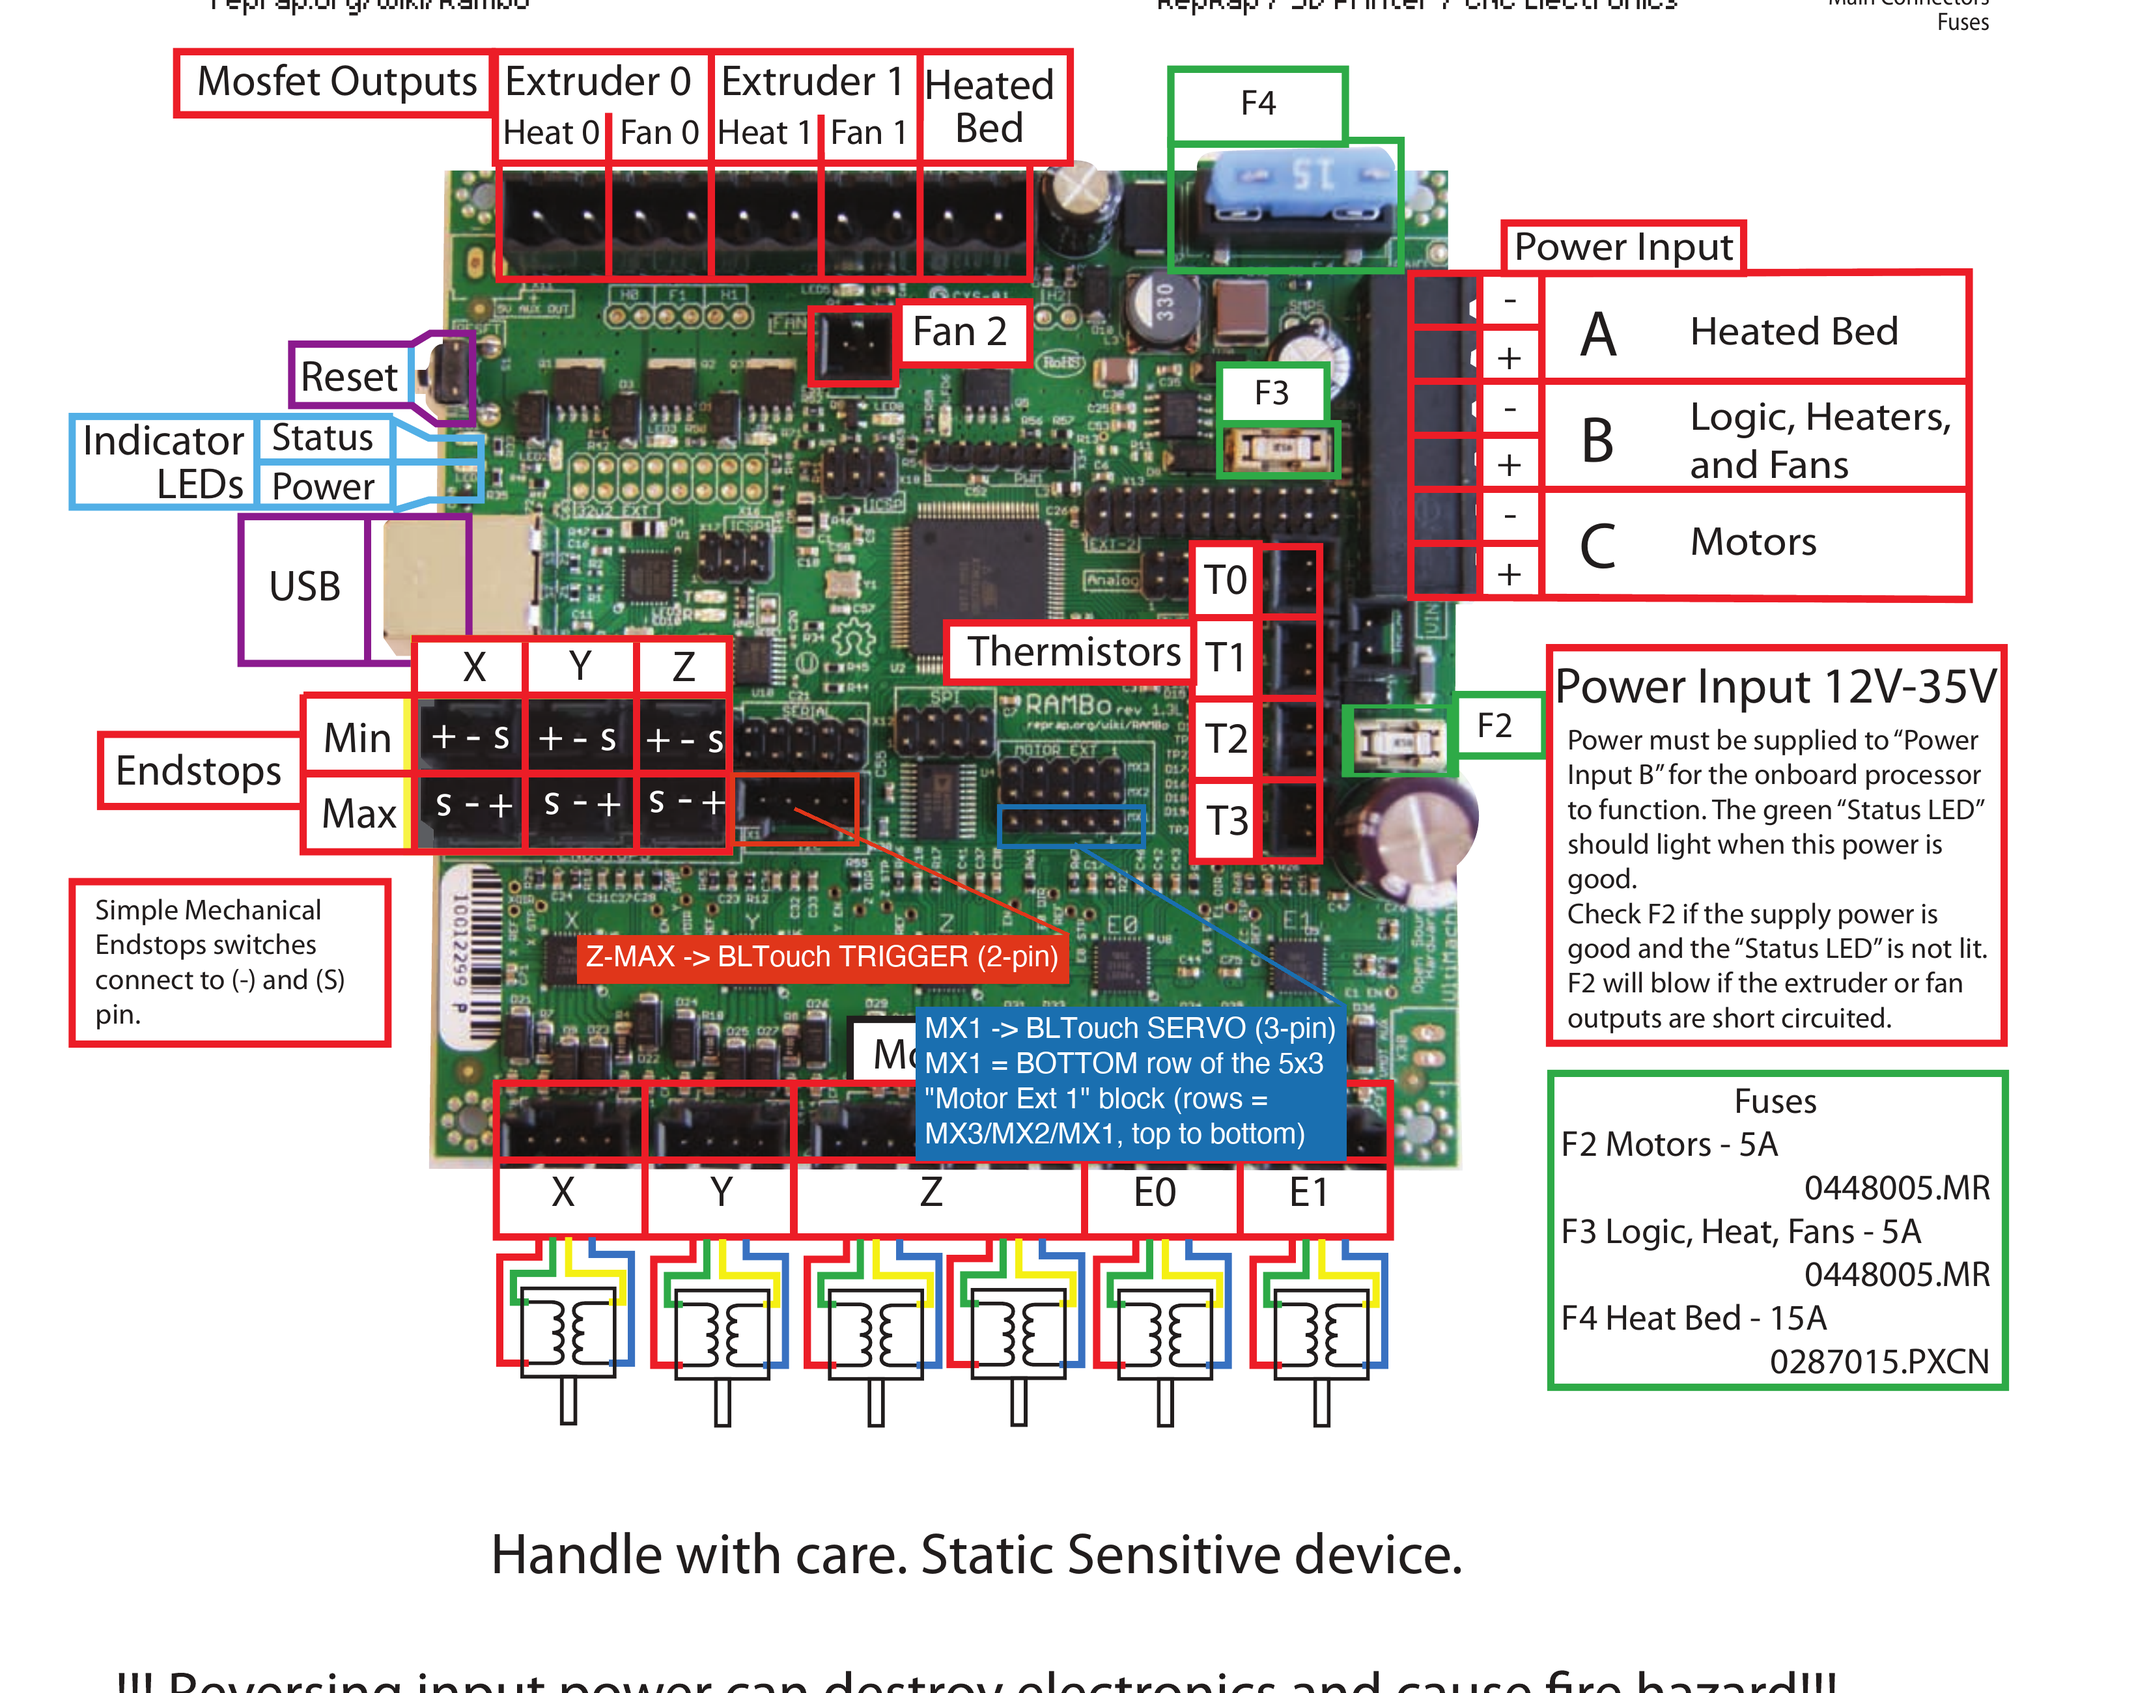
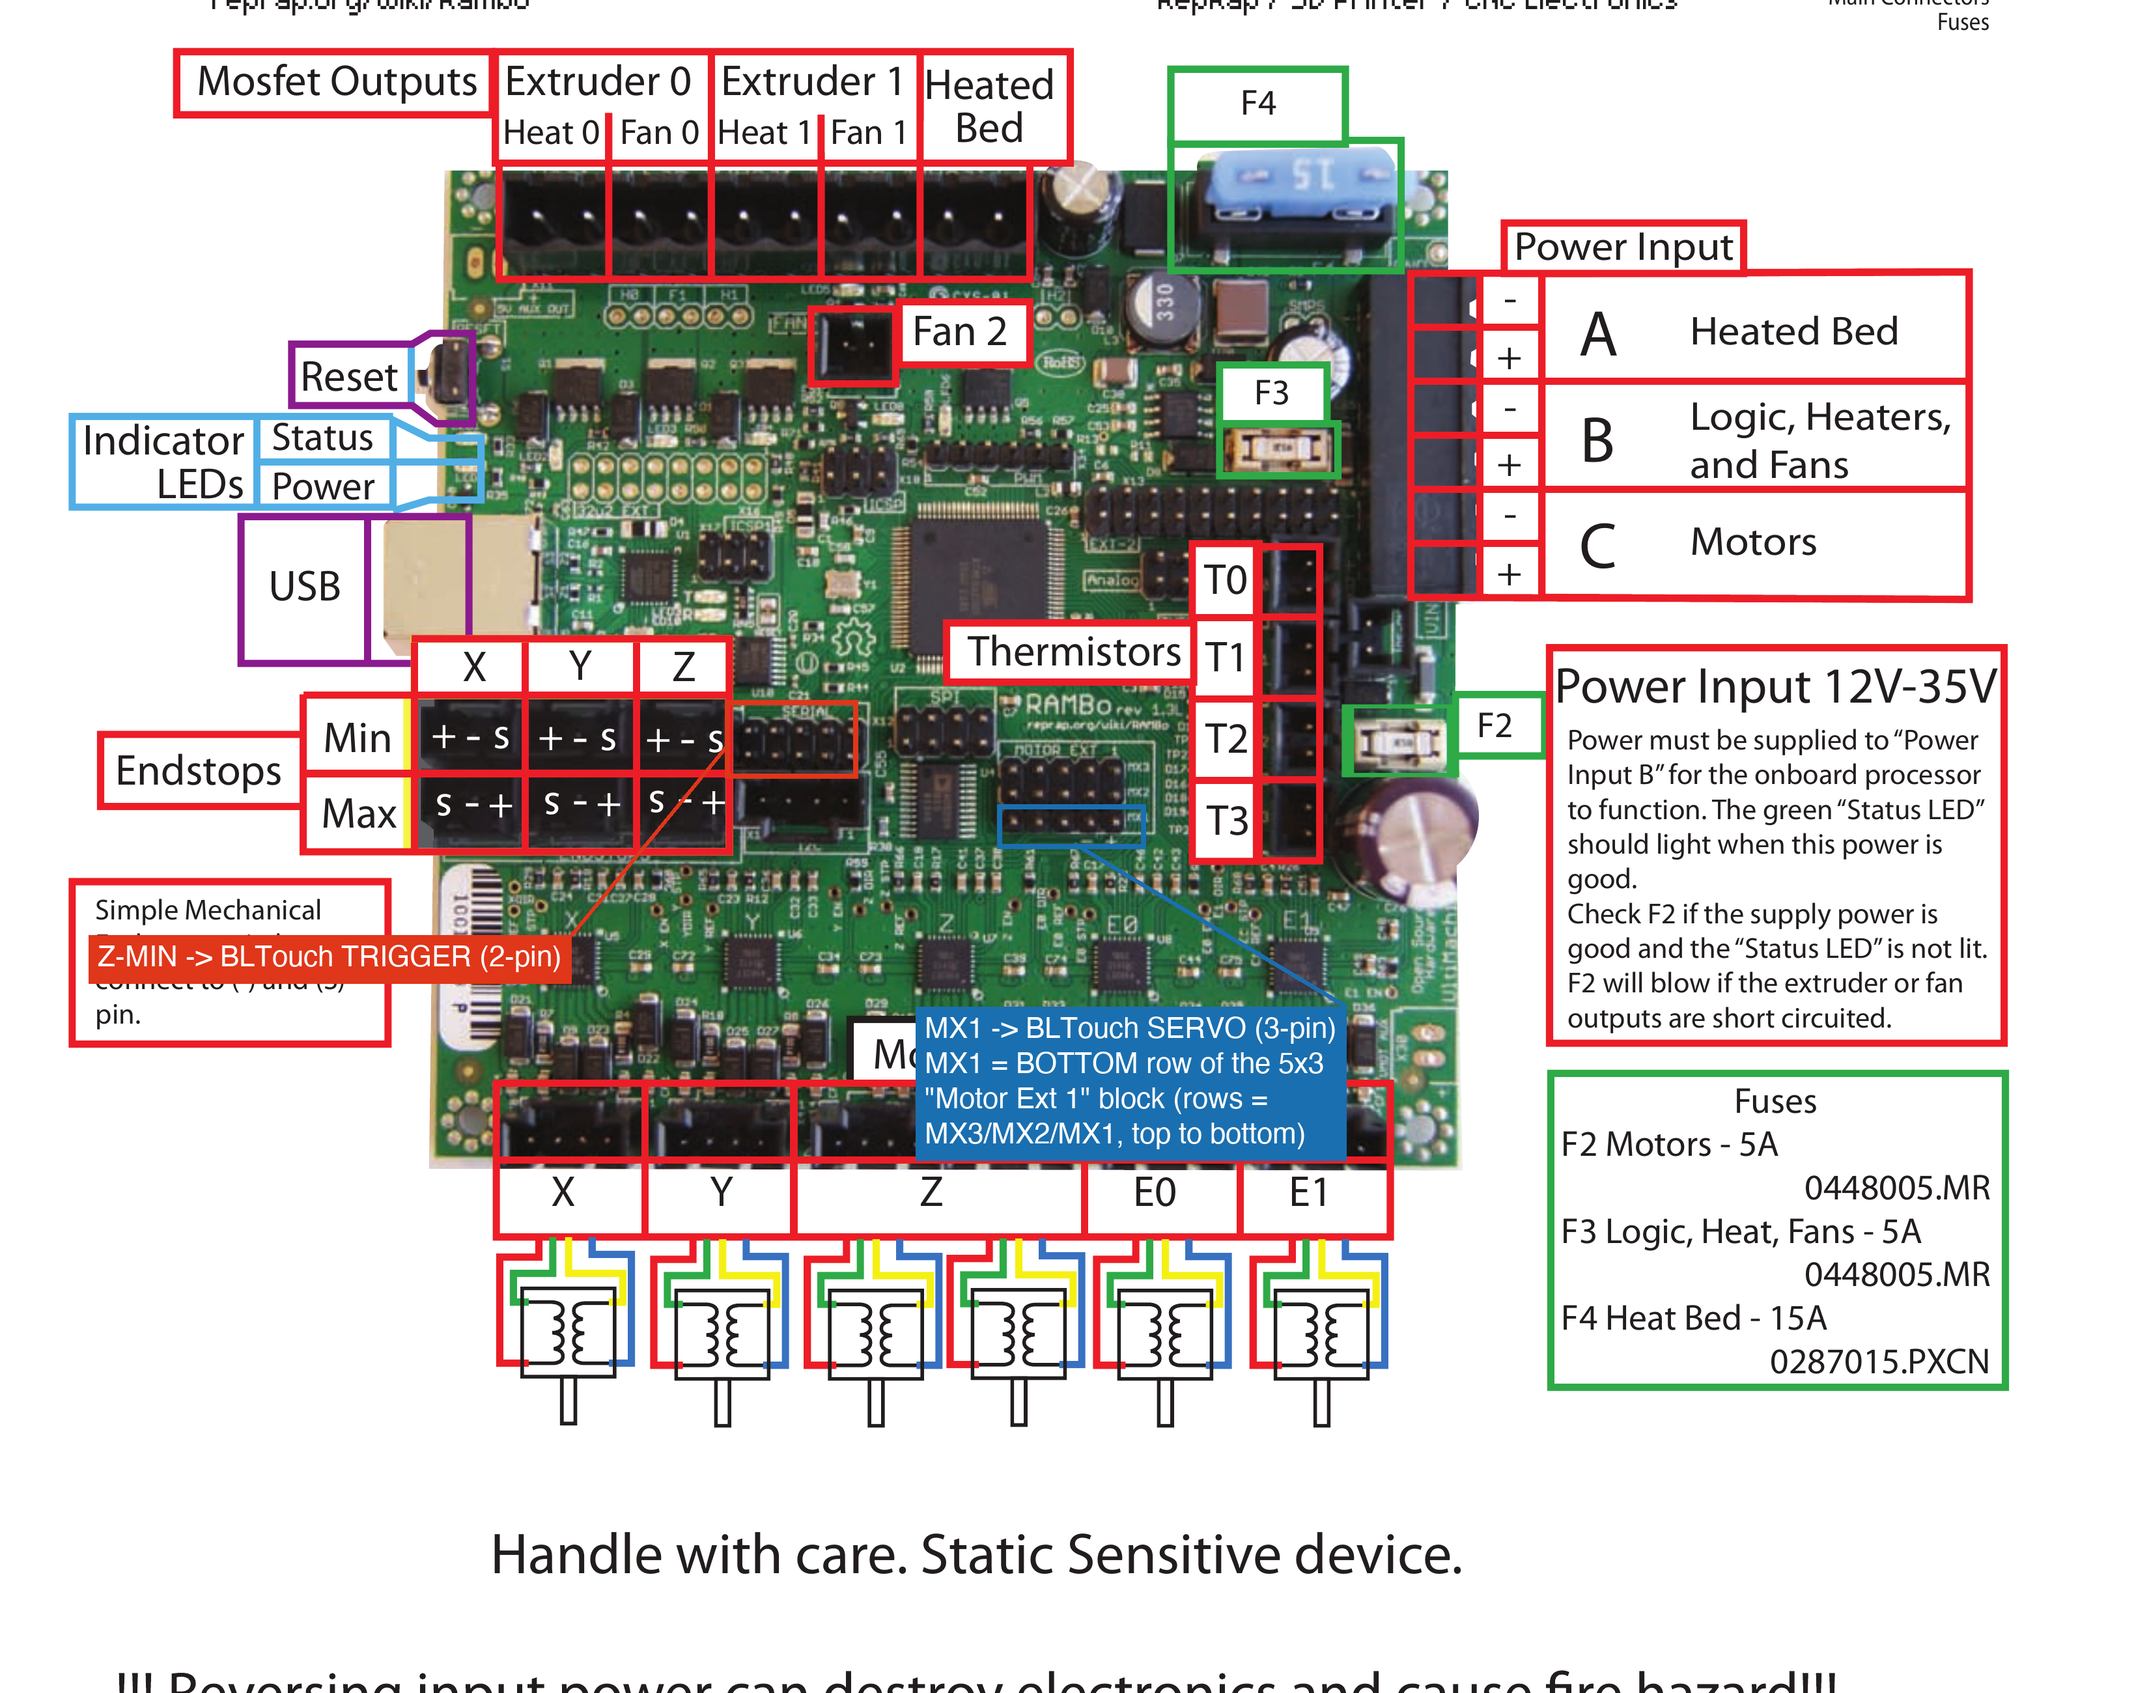
Update board photo and docs: BLTouch trigger now on Z-MIN, not Z-MAX
Follow-up to commit 2af84a3 (firmware change). Re-annotated the board
photo with Z-MIN highlighted instead of Z-MAX, and rewrote
BLTOUCH_PINOUT.md throughout to match: pinout table, wiring checklist,
troubleshooting section, and a new explanatory section on why there's
no Z-Home button in this build anymore (physically removed; BLTouch is
now the sole Z reference, matching the Mini 1 conversion's pattern
rather than TAZ 6's old home-button architecture).

Changed region(s): [[0.0312, 0.5296, 0.4994, 0.5919], [0.3745, 0.405, 0.4058, 0.4985], [0.3121, 0.4362, 0.3433, 0.4985]]

diff --git a/BLTOUCH_PINOUT.md b/BLTOUCH_PINOUT.md
@@ -5,7 +5,7 @@
 - **[BLTOUCH_BOARD_PHOTO_ANNOTATED.png](BLTOUCH_BOARD_PHOTO_ANNOTATED.png)**
   - the real RAMBo board photo, fully labeled with every connector
   (mosfets, endstops, motors, thermistors, etc.), with the two BLTouch
-  connectors additionally highlighted: Z-MAX (red) and MX1 (blue).
+  connectors additionally highlighted: **Z-MIN** (red) and **MX1** (blue).
   Start here for orientation.
 - **[RAMBO_BOARD_FULL_REFERENCE.png](RAMBO_BOARD_FULL_REFERENCE.png)** -
   the same photo without the BLTouch-specific highlights, for a clean
@@ -20,18 +20,32 @@ All three images are real RAMBo board photos (not renders), cropped and
 annotated from UltiMachine's official **RAMBo 1.3L manual** - see
 "Reference" at the bottom for the exact source.
 
+## This build no longer uses a Z-Home button at all
+
+By explicit decision (not a firmware default): the physical mechanical
+Z-Home button switch has been **removed** from this printer. The BLTouch
+is now the sole Z reference for both homing and probing - it is wired to
+the **Z-MIN** endstop header, exactly like a standard BLTouch conversion
+on the Mini/TAZ Pro side of this same codebase. **Z-MAX is not used for
+anything in this build** - nothing should be connected there.
+
+This replaces an earlier version of this firmware/doc that routed the
+BLTouch's trigger signal to Z-MAX instead, on the assumption that the
+old home-button switch was still physically present on Z-MIN. That
+assumption was wrong for this printer - if you built anything from that
+earlier plan, rewire the trigger cable to Z-MIN, not Z-MAX.
+
 ## Corrected from an earlier version of this doc
 
-An earlier version of this document and its images were built from the
-**RAMBo 1.1B manual** - the wrong board revision. On 1.1B, "Motor Ext" is
-three separate side-by-side 5-pin headers (MX1/MX2/MX3 as columns), and
-that manual's prose text claimed pin 1 = VCC, pin 2 = GND. Neither of
-those is correct for this printer's actual board:
+An earlier version of this document and its images were also built from
+the **RAMBo 1.1B manual** - the wrong board revision. Two things were
+wrong there, independent of the Z-MIN/Z-MAX question above:
 
 - This is a **RAMBo v1.3/1.4** board. Its "Motor Ext 1" header is a
   single 5x3 pin block where MX1/MX2/MX3 are **rows**, not separate
-  headers - confirmed both from a real board photo and from the
-  schematic in UltiMachine's own **RAMBo 1.3L manual**.
+  side-by-side headers (as they are on 1.1B) - confirmed both from a
+  real board photo and from the schematic in UltiMachine's own
+  **RAMBo 1.3L manual**.
 - **Pin 1 = GND, pin 2 = VCC** (not the other way around) - confirmed by
   two independent schematics (the 1.3L manual's "Motor Extensions"
   block, and the 1.1B manual's own schematic diagram, which contradicts
@@ -39,23 +53,18 @@ those is correct for this printer's actual board:
   silkscreen markings under the MX1 row also line up with GND-then-VCC
   reading left to right.
 
-If you saved or printed the earlier version of this doc, discard it -
-the pin *numbers* (D22, D30) were always correct (they come from this
-repo's own firmware source, cross-checked independently), only the
-physical layout and VCC/GND ordering were wrong.
+If you saved or printed an earlier version of this doc, discard it -
+the underlying firmware pin *numbers* (D22 for the servo/control line)
+were always correct (independently sourced from this repo's own
+firmware, not either manual), only the physical layout, VCC/GND
+ordering, and (see above) the Z-MIN/Z-MAX choice were wrong.
 
 ## Status
 
-**Board-revision-correct, still not physically confirmed on this
-specific printer.** The images and pin mapping below are now sourced
-from a RAMBo v1.3-family manual (matching this printer's actual board
-family per `PROJECT.md`'s "v1.3 or v1.4" note), not a mismatched
-revision. What's still unconfirmed: whether *this exact* board is 1.3
-vs. 1.4 (should be electrically identical for this purpose, but not
-visually confirmed), and whether the physical BLTouch has actually been
-wired to match. Verify with a multimeter and the bring-up checklist
-below before trusting it near the bed. Do not home or probe on real
-hardware until it's confirmed.
+**Board-revision-correct, architecture matches explicit instructions,
+still not physically confirmed on this specific printer.** Verify with
+a multimeter and the bring-up checklist below before trusting it near
+the bed. Do not home or probe on real hardware until it's confirmed.
 
 ## Safety first
 
@@ -85,14 +94,14 @@ hardware until it's confirmed.
 | BLTouch cable | BLTouch wires (typical) | Connects to | RAMBo pin | Function in firmware |
 |---|---|---|---|---|
 | 3-pin servo/control | Black/Brown = GND, Red = +5V, Yellow/Orange = Signal | **MX1 row** (bottom row of the "Motor Ext 1" block), pins 1-2-3 left to right | `SERVO0_PIN`, Arduino digital pin **22** (pin 3 of the row) | Drives the BLTouch's PWM deploy/stow command. Board default in `pins_RAMBO.h` - not reassigned in firmware. |
-| 2-pin sensor/trigger | White = Signal, Black = GND | **Z-MAX endstop header** | `Z_MIN_PROBE_PIN`, Arduino digital pin **30** | Reads the BLTouch's trigger/alarm signal when the probe touches down. Repurposed in firmware from the (unused) Z-max endstop. |
+| 2-pin sensor/trigger | White = Signal, Black = GND | **Z-MIN endstop header** | `Z_MIN_PIN`, Arduino digital pin **10** | Reads the BLTouch's trigger/alarm signal directly on the Z-Min endstop pin (`LULZBOT_Z_MIN_PROBE_USES_Z_MIN_ENDSTOP_PIN`) - the same mechanism the Mini/TAZ Pro already use, since this build no longer has a separate mechanical home button. |
 
 MX1 row pin order, left to right: **1 = GND, 2 = VCC, 3 = Signal (D22),
 4 = unused, 5 = unused.** Only use the first 3 pins.
 
 Confirm the exact wire colors against the adapter cable you actually
-have - kits vary. The pin *numbers* (D22, D30) are cross-verified
-against UltiMachine's RAMBo 1.3L manual schematic in addition to
+have - kits vary. The pin *numbers* are cross-verified against
+UltiMachine's RAMBo 1.3L manual schematic in addition to
 `pins_RAMBO.h` - but still confirm the header *position* against your
 physical board's silkscreen, since minor layout details can still vary
 between 1.3 and 1.4.
@@ -105,11 +114,11 @@ between 1.3 and 1.4.
    that wiring is still connected, disconnect it first - the BLTouch
    needs this pin as a PWM *output*, and the two uses conflict
    electrically.
-2. **The Z-MAX header should be free.** TAZ 6 homes Z using a home
-   button + probe, not a mechanical Z-max switch, so stock firmware
-   never enables `USE_ZMAX_PLUG` and this header goes unused. It should
-   be empty on the physical board - but verify nothing is connected
-   there before plugging in the BLTouch's 2-pin trigger cable.
+2. **The Z-MIN header should be free of the old home-button switch.**
+   Confirm the mechanical Z-Home button has actually been physically
+   disconnected before wiring the BLTouch's trigger cable there - the
+   two can't share the pin. Z-MAX should have nothing connected to it
+   at all in this build.
 
 ## Bring-up checklist (do this before your first real print)
 
@@ -127,8 +136,8 @@ between 1.3 and 1.4.
    test, since a wrong probe pin or offset could drive the nozzle into
    the bed.
 4. Once homing works reliably, calibrate the values this firmware left
-   as explicit placeholders (see commit `7a05509`'s message for the
-   full list):
+   as explicit placeholders (see commit `2af84a3`'s message, and the
+   earlier `7a05509`, for the full list):
    - **Z probe offset** (`-1.0` placeholder): use `G29`/`M851` to
      measure the real difference between where the probe triggers and
      where the nozzle touches the bed, then `M851 Z<value>` and `M500`.
@@ -137,8 +146,8 @@ between 1.3 and 1.4.
      `X_PROBE_OFFSET_FROM_EXTRUDER`/`Y_PROBE_OFFSET_FROM_EXTRUDER` in
      `Marlin/Conditionals_LulzBot.h`, rebuild, reflash.
    - **Z_SAFE_HOMING X/Y point** (currently `-19, 258`, inherited from
-     the old home-button config): confirm it's still a safe, reachable
-     point for the BLTouch specifically, adjust and reflash if not.
+     the old home-button config): confirm it's a safe, reachable point
+     for the BLTouch specifically, adjust and reflash if not.
 5. Run a full `G29` bed mesh (LCD: Prepare > Level Bed, now visible for
    this BLTouch build - see `PROJECT.md`) and check the results look
    sane (no wildly outlying points, which usually means a wiring/trigger
@@ -153,10 +162,10 @@ between 1.3 and 1.4.
   check the 3-pin servo/control cable's polarity and that it's on the
   MX1 row, not still on the old bed-washer probe wiring.
 - **BLTouch deploys but G28/G29 never detects a trigger**: check the
-  2-pin sensor cable is on the Z-MAX header and its polarity - Marlin's
-  BLTouch auto-configuration handles endstop-inverting/pullups
-  automatically when `LULZBOT_USE_BLTOUCH` is enabled, so don't
-  hand-edit those unless you know why.
+  2-pin sensor cable is on the Z-MIN header (not Z-MAX) and its
+  polarity - Marlin's BLTouch auto-configuration handles
+  endstop-inverting/pullups automatically when `LULZBOT_USE_BLTOUCH` is
+  enabled, so don't hand-edit those unless you know why.
 - **Board won't boot / no LCD after flashing**: reflash the stock
   (non-BLTouch) config first (comment out `LULZBOT_USE_BLTOUCH` in
   `Marlin/Configuration_LulzBot.h`, rebuild, reflash) to isolate whether
@@ -164,8 +173,9 @@ between 1.3 and 1.4.
 
 ## Reference
 
-- Firmware pin assignment: `Marlin/Conditionals_LulzBot.h`, commit
-  `7a05509` ("Add BLTouch support for TAZ 6").
+- Firmware pin assignment: `Marlin/Conditionals_LulzBot.h`, commits
+  `7a05509` ("Add BLTouch support for TAZ 6") and `2af84a3` ("Route
+  BLTouch trigger through Z-MIN instead of Z-MAX").
 - Board pin source: `Marlin/src/pins/pins_RAMBO.h`.
 - Board photos and pin mapping: *RAMBo 1.3L* connector diagram and
   schematic ("RAMBo-connectors.ai" / `RAMBo-manual.pdf`), downloaded
@@ -174,5 +184,5 @@ between 1.3 and 1.4.
   Board design and document copyright 2014 UltiMachine (Johnny, Britt,
   Dorothy, Lee, Bruce). Page 1 (main connectors photo) and page 3
   ("Motor Extensions" schematic block) were cropped and re-annotated
-  with the Z-MAX/MX1 highlights for this project.
+  with the Z-MIN/MX1 highlights for this project.
 - Project background/open questions: `../PROJECT.md`.
